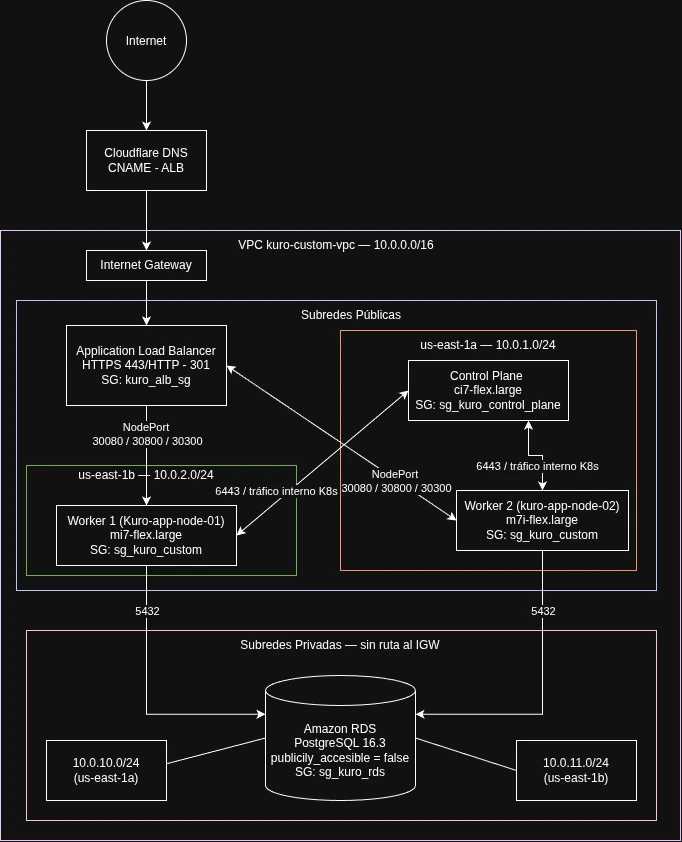
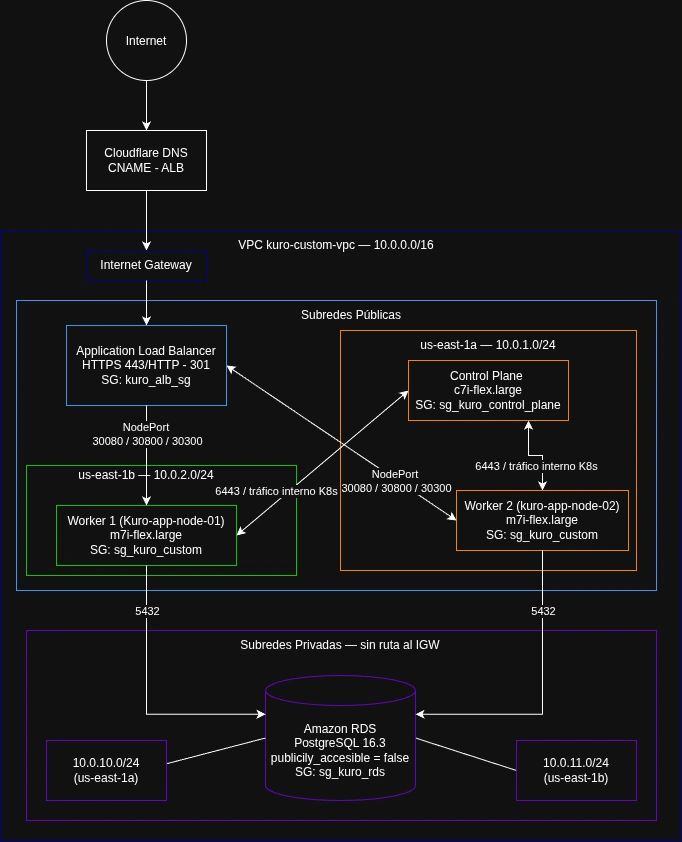
feat: add architecture diagrams, storage encrypted RDS and product seeding management command

diff --git a/kuro-backend/store/management/commands/seed_products.py b/kuro-backend/store/management/commands/seed_products.py
@@ -1,0 +1,151 @@
+import random
+from decimal import Decimal
+from django.core.management.base import BaseCommand
+from django.db import transaction
+from django.utils.text import slugify
+from store.models import Product, ProductVariant
+
+
+class Command(BaseCommand):
+    help = 'Insercion de productos y variantes de prueba para validación y pruebas de estrés'
+
+    # Plantillas de productos por categoría
+    TEMPLATES = {
+        'playeras': [
+            'Playera Kuro Oversized Edition',
+            'Playera Streetwear Gothic Minimal',
+            'Playera Cyberpunk Neon Kanji',
+            'Playera Acid Wash Vintage Acid',
+            'Playera Boxy Fit Heavyweight',
+            'Playera Anime Graphic Dark Aesthetic',
+            'Playera Retro Wave Kuro Club',
+            'Playera Techwear Urban Tactical',
+            'Playera Y2K Cyber Grunge',
+            'Playera Raw Cotton Monochrome',
+        ],
+        'sudaderas': [
+            'Sudadera Hoodie Kuro Signature 400gsm',
+            'Sudadera Zip Hoodie Cyberpunk Dark',
+            'Sudadera Crewneck Minimalist Heavy',
+            'Sudadera Oversize Kanji Graphic',
+            'Sudadera Vintage Washed Charcoal',
+            'Sudadera Tactical Urban Fleece',
+            'Sudadera Streetwear Crop Fleece',
+            'Sudadera Dual Tone Kuro Tech',
+        ],
+        'gorras': [
+            'Gorra Snapback Kuro 3D Embroidery',
+            'Gorra Dad Hat Washed Cotton Vintage',
+            'Gorra Trucker Mesh Cyber Dark',
+            'Gorra 5-Panel Tactical Ripstop',
+            'Gorra Beanie Kuro Ribbed Knit',
+            'Gorra Bucket Hat Streetwear Reversible',
+        ],
+        'tazas': [
+            'Taza Cerámica Kuro Dark Mode 15oz',
+            'Taza Térmica Acero Inoxidable Kuro Pro',
+            'Taza Mágica Sensible al Calor Kanji',
+            'Taza Esmaltada Vintage Campfire',
+            'Taza Mate Negro Minimalist Desk',
+        ],
+        'shorts_box': [
+            'Shorts Box Pro Satin Edition Kuro',
+            'Shorts Muay Thai Retro Slit Cut',
+            'Shorts Kickboxing Flex Combat',
+            'Shorts Sparring Heavyweight Black',
+            'Shorts Training Breathable Mesh',
+        ],
+    }
+
+    PRICE_RANGES = {
+        'playeras': (299.00, 549.00),
+        'sudaderas': (649.00, 1199.00),
+        'gorras': (249.00, 429.00),
+        'tazas': (149.00, 299.00),
+        'shorts_box': (499.00, 899.00),
+    }
+
+    def add_arguments(self, parser):
+        parser.add_argument(
+            '--count',
+            type=int,
+            default=50,
+            help='Número total de productos a generar (por defecto: 50)',
+        )
+        parser.add_argument(
+            '--clear',
+            action='store_true',
+            help='Elimina los productos existentes antes de sembrar nuevos datos',
+        )
+
+    def handle(self, *args, **options):
+        total_count = options['count']
+        clear_existing = options['clear']
+
+        if clear_existing:
+            self.stdout.write(self.style.WARNING('Eliminando productos existentes...'))
+            deleted_count, _ = Product.objects.all().delete()
+            self.stdout.write(self.style.WARNING(f'Se eliminaron {deleted_count} registros.'))
+
+        self.stdout.write(self.style.NOTICE(f'Generando hasta {total_count} productos con sus variantes...'))
+
+        categories = list(self.TEMPLATES.keys())
+        clothing_sizes = ['S', 'M', 'L', 'XL']
+        accessory_sizes = ['UNI']
+
+        created_products = 0
+        created_variants = 0
+
+        with transaction.atomic():
+            for i in range(1, total_count + 1):
+                category = categories[(i - 1) % len(categories)]
+                template_names = self.TEMPLATES[category]
+                base_name = template_names[(i - 1) % len(template_names)]
+
+                # Nombre único con sufijo si supera la lista de plantillas
+                cycle = (i - 1) // len(template_names)
+                name = f"{base_name} Vol. {cycle + 1}" if cycle > 0 else base_name
+                slug = slugify(f"{name}-{i}")
+
+                min_price, max_price = self.PRICE_RANGES[category]
+                price = Decimal(str(round(random.uniform(min_price, max_price), 2)))
+
+                desc = (
+                    f"{name}. Prenda y accesorio oficial de Kuro Custom E-commerce. "
+                    f"Fabricado con materiales de alta densidad para máxima durabilidad, "
+                    f"corte especializado y acabado premium."
+                )
+
+                product, was_created = Product.objects.get_or_create(
+                    slug=slug,
+                    defaults={
+                        'name': name,
+                        'description': desc,
+                        'price': price,
+                        'category': category,
+                        'is_customizable': (i % 2 == 0),
+                        'image': None,
+                    },
+                )
+
+                if was_created:
+                    created_products += 1
+
+                # Asignar variantes de talla y stock
+                target_sizes = clothing_sizes if category in ['playeras', 'sudaderas', 'shorts_box'] else accessory_sizes
+                for size in target_sizes:
+                    stock_qty = random.randint(25, 150)
+                    _, variant_created = ProductVariant.objects.get_or_create(
+                        product=product,
+                        size=size,
+                        defaults={'stock': stock_qty},
+                    )
+                    if variant_created:
+                        created_variants += 1
+
+        self.stdout.write(
+            self.style.SUCCESS(
+                f' Éxito: {created_products} productos creados y {created_variants} variantes registradas.\n'
+                f'  Total en base de datos: {Product.objects.count()} productos y {ProductVariant.objects.count()} variantes.'
+            )
+        )

diff --git a/kuro-backend/store/management/__init__.py b/kuro-backend/store/management/__init__.py
@@ -1,0 +1,1 @@
+# Management package

diff --git a/kuro-backend/store/management/commands/__init__.py b/kuro-backend/store/management/commands/__init__.py
@@ -1,0 +1,1 @@
+# Commands package
